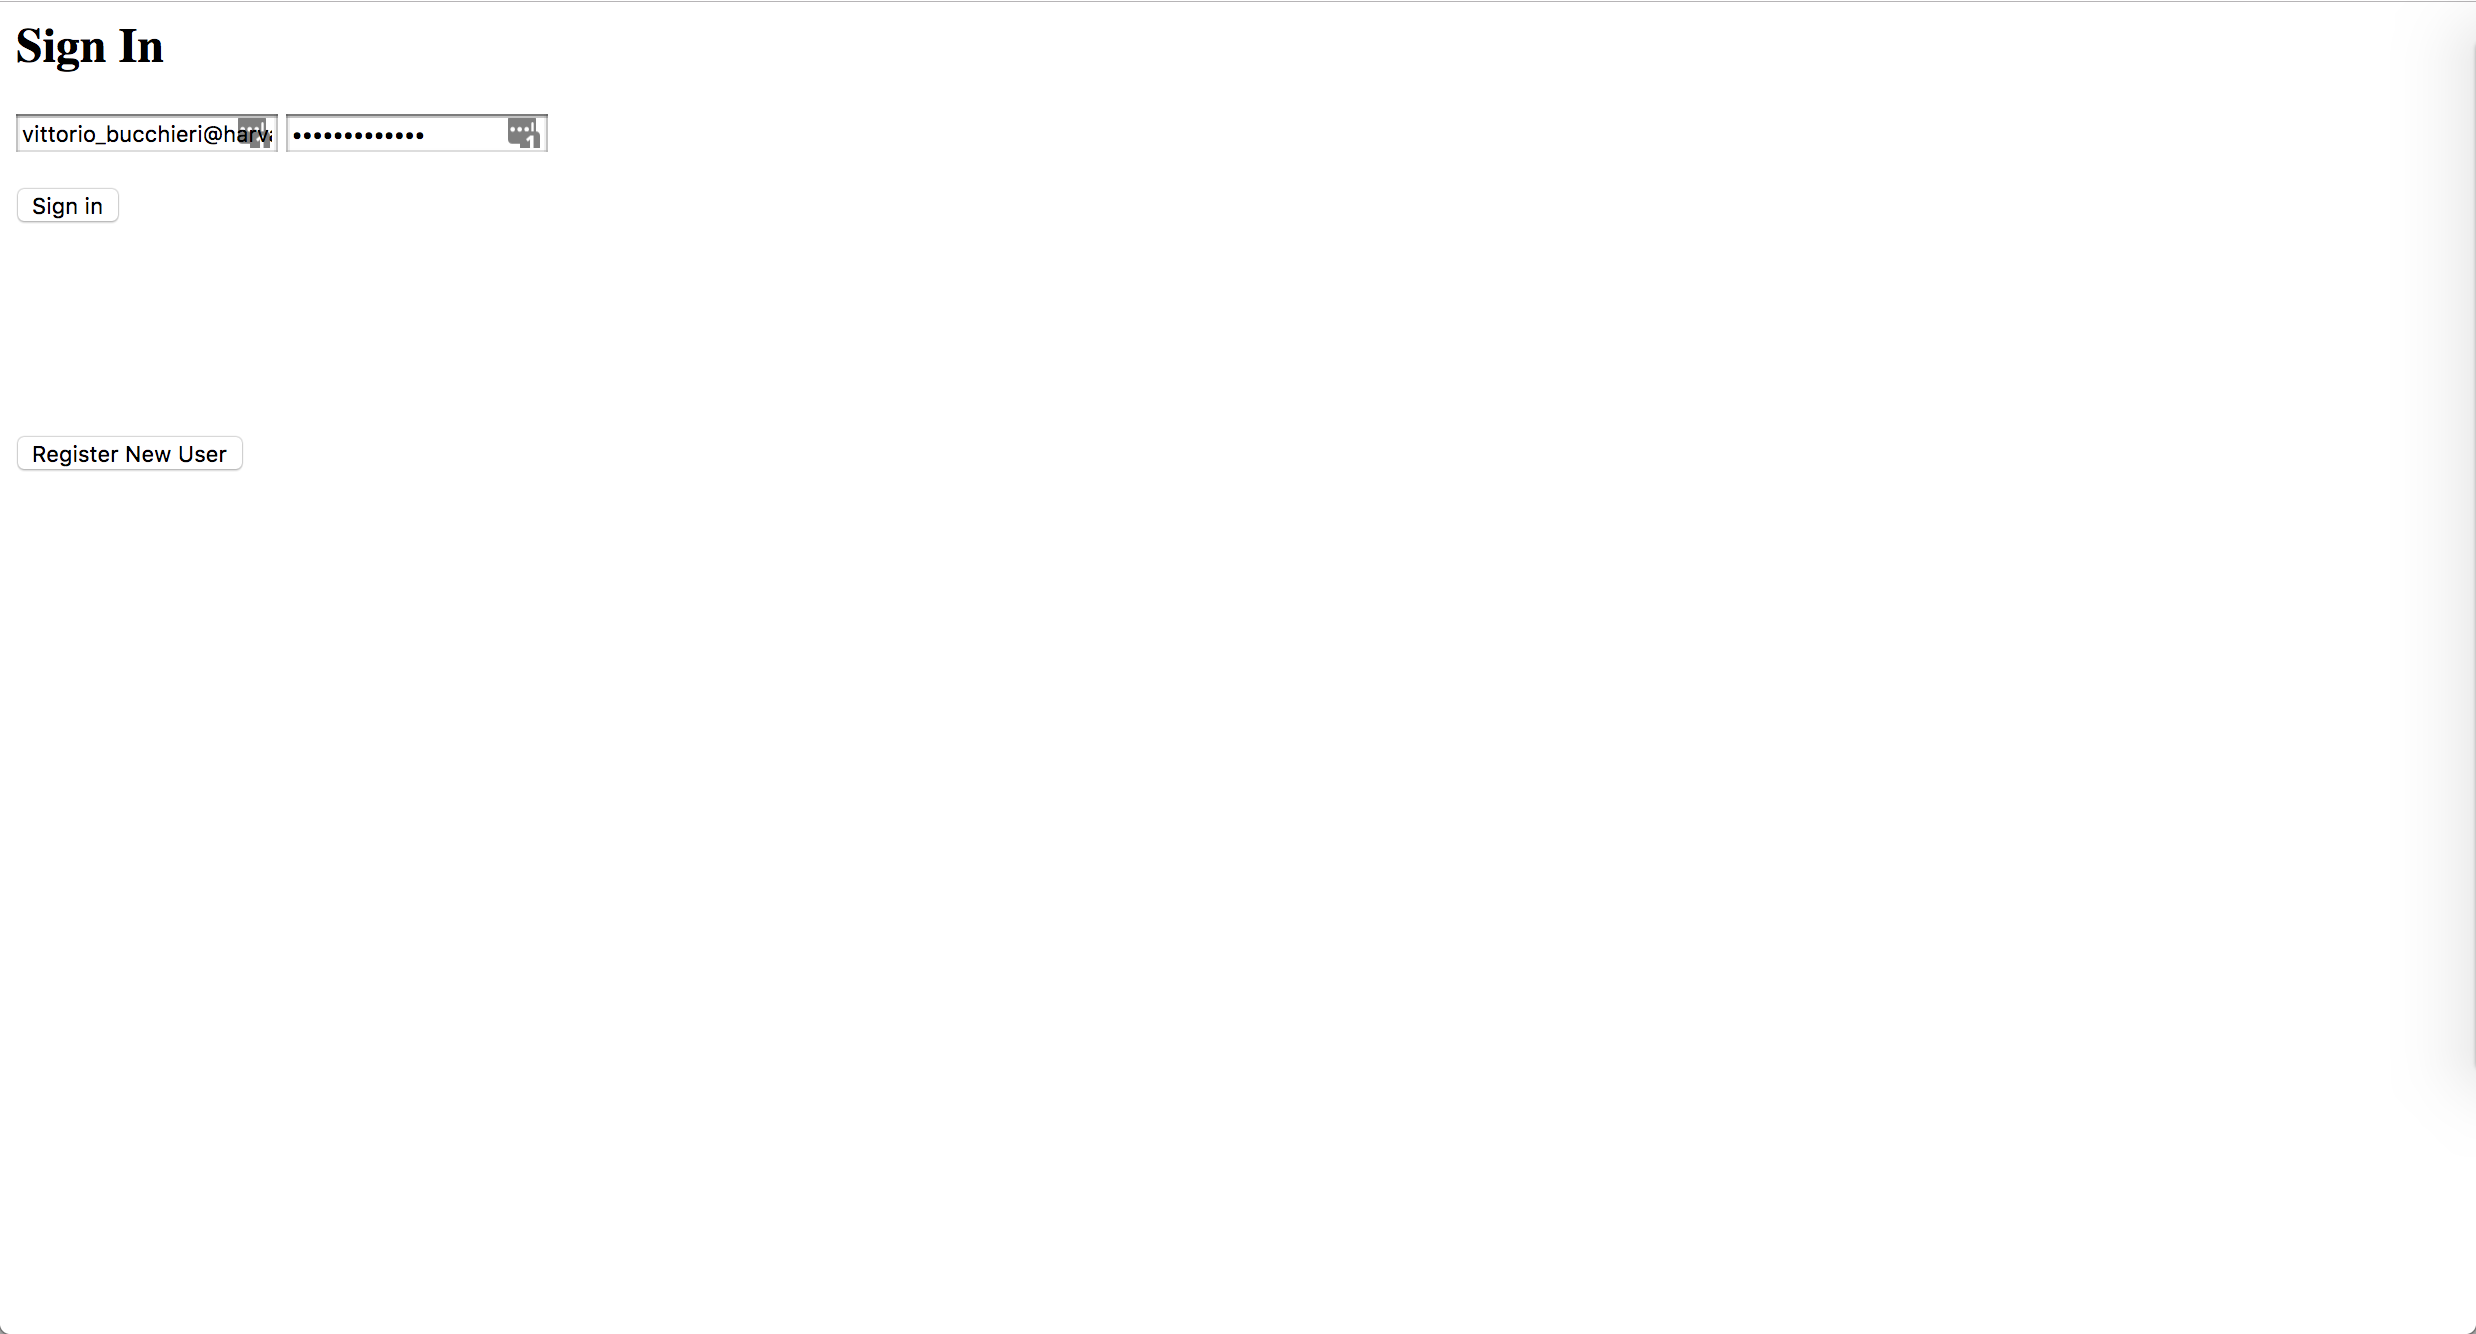
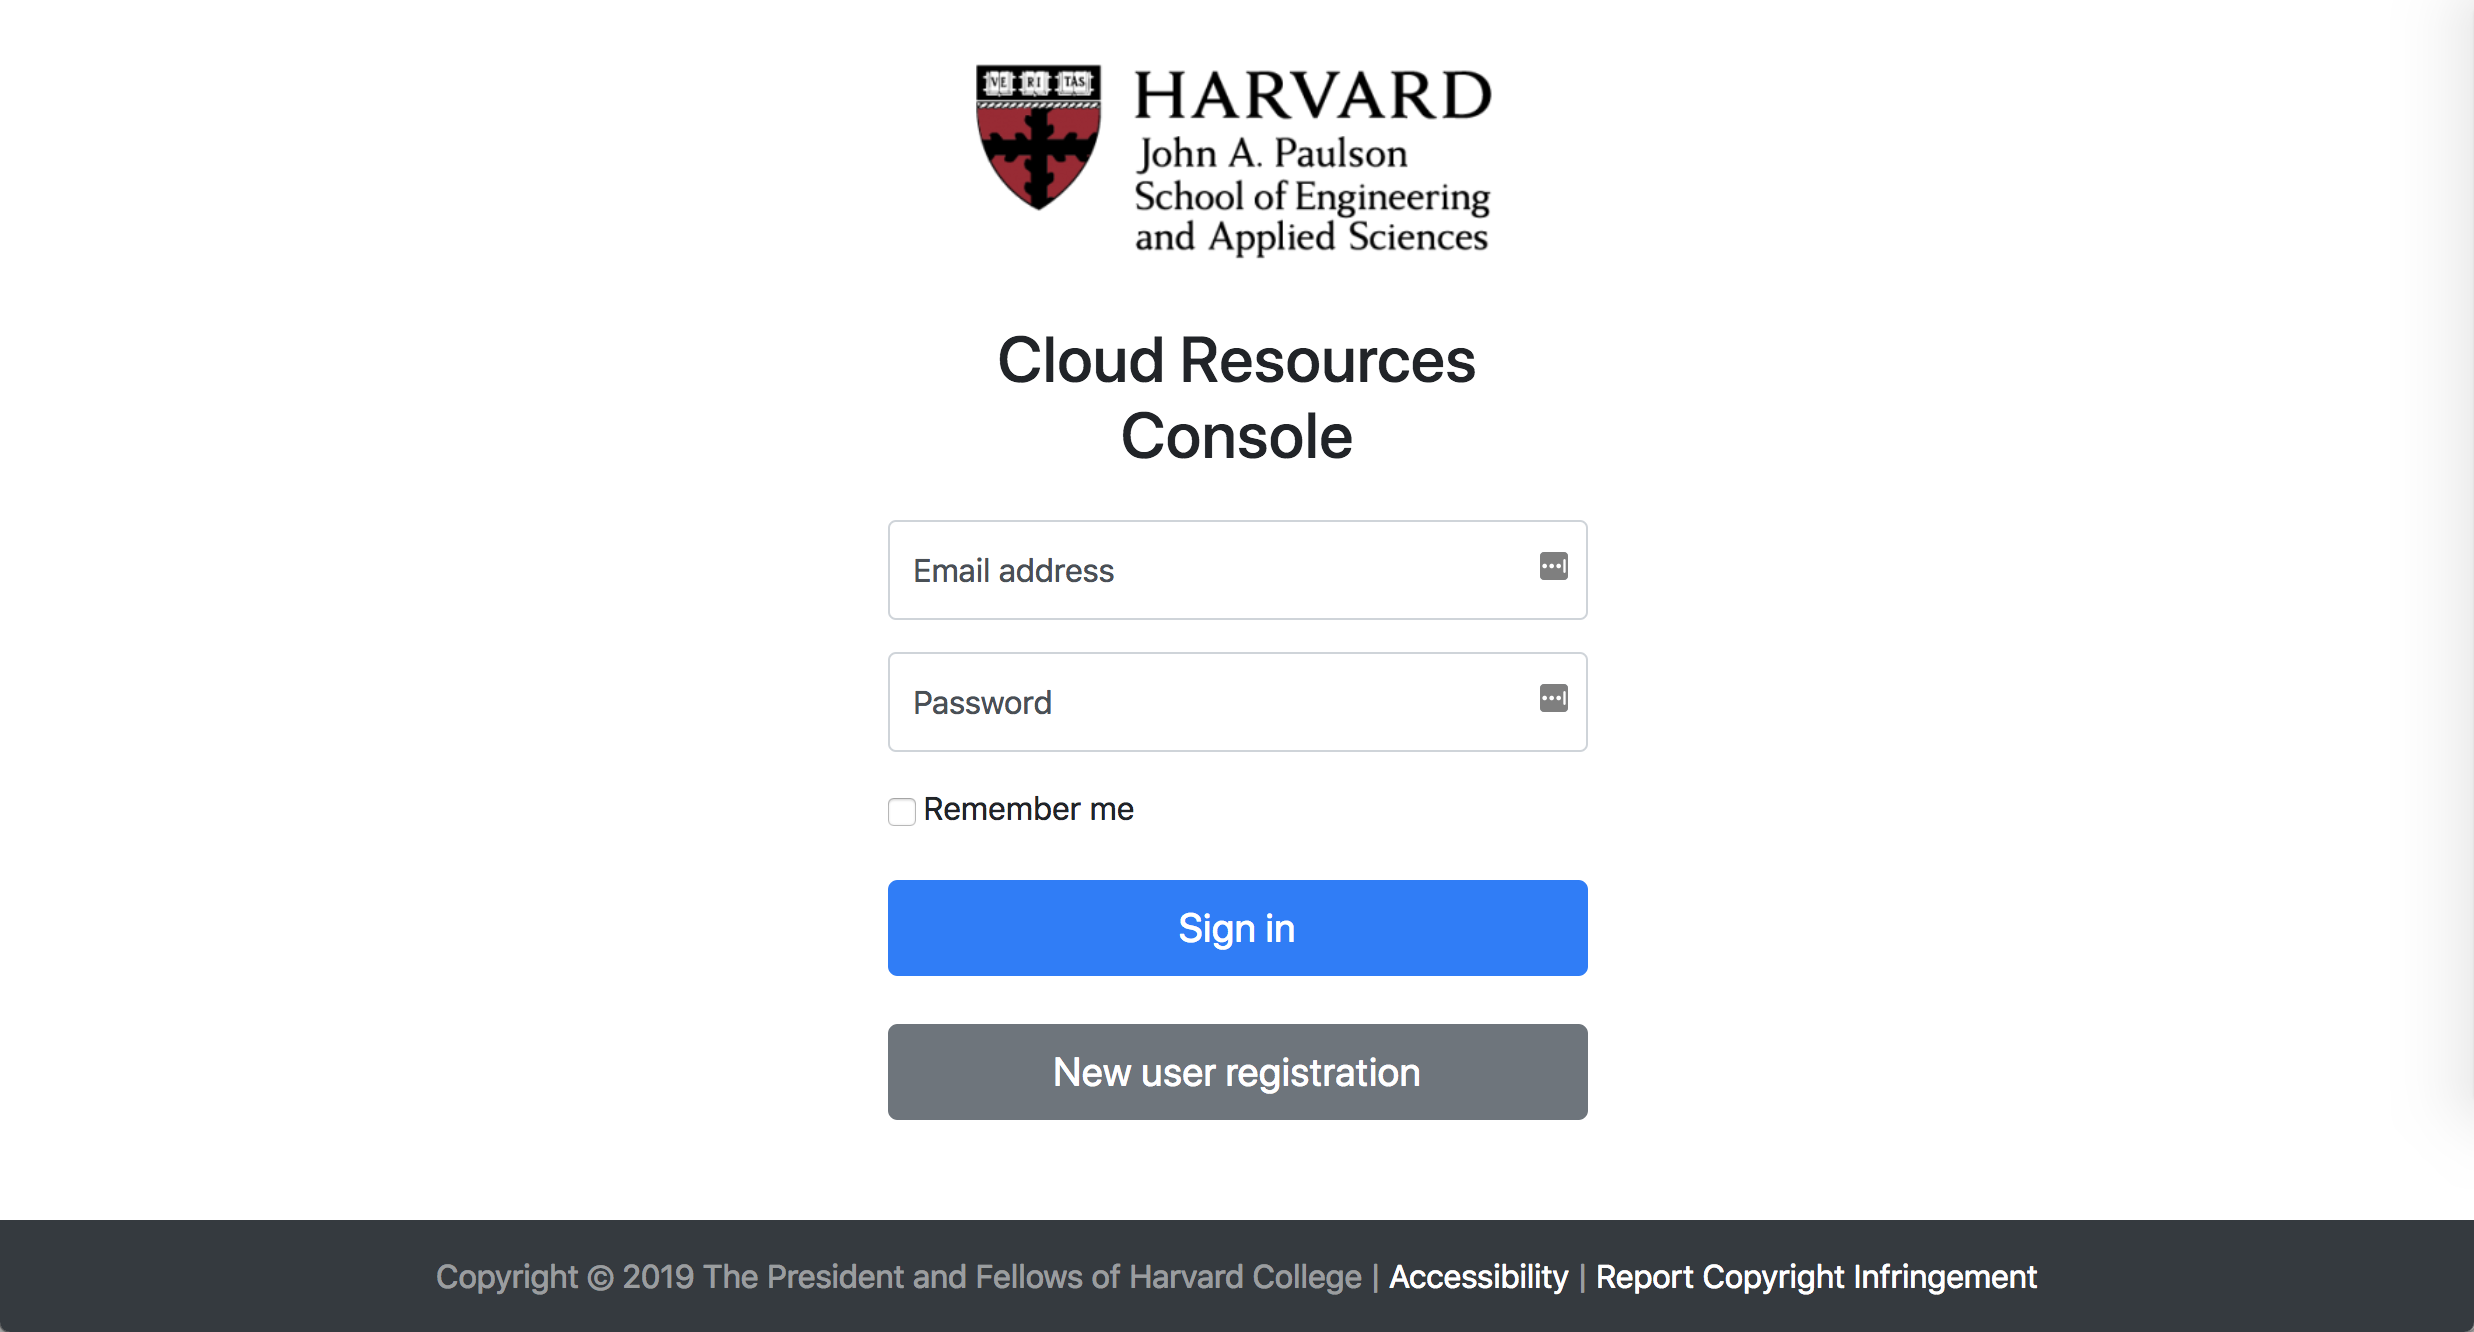
Add files via upload

diff --git a/AWS-CloudProvisioningConsole/SEAS-AWS_signIn/index.html b/AWS-CloudProvisioningConsole/SEAS-AWS_signIn/index.html
@@ -1,43 +1,115 @@
-<!--Current UI code of https://d2b4z2hciygw50.cloudfront.net/signin.html-->
+<!--Proposed UI code for https://d2b4z2hciygw50.cloudfront.net/signin.html-->
+<!--There are 11 UI comments in this commit-->
 
 
 
 
 
-
-<html>
+<!--UI comment #1 - HTML5 doctype-->
+<!doctype html>
+<!--UI comment #2 - language-->
+<html lang="en">
     <head>
         <meta charset="utf-8">
         <meta http-equiv="X-UA-Compatible" content="IE=edge,chrome=1">
-        <title></title>
+
+<!--UI comment #3 - responsive meta tag -->
+        <meta name="viewport" content="width=device-width, initial-scale=1, shrink-to-fit=no">
+
+<!--UI comment #4 - SEAS favicon-->
+        <link rel="icon" type="image/png" href="https://www.seas.harvard.edu/favicon.ico">
+
+<!--UI comment #5 - Bootstrap CSS-->
+        <link rel="stylesheet" href="https://stackpath.bootstrapcdn.com/bootstrap/4.3.1/css/bootstrap.min.css"
+              integrity="sha384-ggOyR0iXCbMQv3Xipma34MD+dH/1fQ784/j6cY/iJTQUOhcWr7x9JvoRxT2MZw1T"
+              crossorigin="anonymous">
+
+<!--UI comment #6 - Custom styles for this template -->
+        <link href="floating-labels.css" rel="stylesheet">
+
+
+<!--UI comment #7 - adding title-->
+        <title>
+            Sign in - Cloud Resources Console | Harvard John A. Paulson School of Engineering and Applied Sciences
+        </title>
         <meta name="description" content="">
-        <meta name="viewport" content="width=device-width">
     </head>
 
     <body>
-        <h2>Sign In</h2>
-        <form id="signinForm">
-            <input type="email" id="emailInputSignin" placeholder="Email" required="" autocomplete="off"
[1 lines of base64/hex data omitted]
-            <input type="password" id="passwordInputSignin" placeholder="Password" pattern=".*" required="" autocomplete="off"
[1 lines of base64/hex data omitted]
-            <br> <br>
-            <input type="submit" value="Sign in">
-        </form>
-        <br>
-        <br>
-        <br>
-        <br>
-        <br>
-        <form id="registerForm" method="get" action="register.html">
-            <button type="submit">Register New User</button>
-        </form>
+
+<!--UI comment #8 - Bootstrap responsive layout-->
+    <div class="container">
+        <div class="row">
+            <div class="col-lg-4 col-md-6 col-sm-6 col-xs-12 mx-auto mt-4">
+                <form>
+                    <div class="text-center mb-4">
+                        <img class="mb-4" src="https://static.projects.iq.harvard.edu/files/styles/os_files_medium/public/tib/files/2015_seaslogo_rgb_02.png?m=1472141717&itok=zwdYyihR" alt="Logo of Harvard John A. Paulson School of Engineering and Applied Sciences" style="width: 80%;">
+                        <h2>
+                            Cloud Resources Console
+                        </h2>
+                    </div>
+
+                    <div class="form-label-group">
+                        <input type="email" id="inputEmail" class="form-control" placeholder="Email address" required=""
+                               autofocus="" autocomplete="off"
[1 lines of base64/hex data omitted]
+                        <label for="inputEmail">Email address</label>
+                    </div>
+
+                    <div class="form-label-group">
+                        <input type="password" id="inputPassword" class="form-control" placeholder="Password" required=""
+                               autocomplete="off"
[1 lines of base64/hex data omitted]
+                        <label for="inputPassword">Password</label>
+                    </div>
+
+<!--UI comment #9 - suggesting a Remember me option, if it is feasible to implement-->
+                    <div class="checkbox mb-3">
+                        <label>
+                            <input type="checkbox" value="remember-me"> Remember me
+                        </label>
+                    </div>
+
+                    <input type="submit" value="Sign in" class="btn btn-lg btn-primary btn-block">
+                </form>
+
+                <div class="text-center mt-4">
+                    <form id="registerForm" method="get" action="register.html">
+                        <button type="submit" class="btn btn-lg btn-secondary btn-block">New user registration</button>
+                    </form>
+                </div>
+            </div>
+        </div>
+    </div>
+
+<!--UI comment #10 - standard Harvard footer-->
+        <nav class="navbar navbar-dark bg-dark fixed-bottom">
+            <span class="navbar-text mx-auto">
+                Copyright © 2019 The President and Fellows of Harvard College
+                |
+                <a href="http://accessibility.harvard.edu/">Accessibility</a>
+                |
+                <a href="http://www.harvard.edu/reporting-copyright-infringements">Report Copyright Infringement</a>
+            </span>
+        </nav>
 
         <script src="js/vendor/jquery-3.1.0.js"></script>
         <script src="js/vendor/aws-cognito-sdk.min.js"></script>
         <script src="js/vendor/amazon-cognito-identity.min.js"></script>
         <script src="js/config.js"></script>
         <script src="js/cognito-auth.js"></script>
+
+<!--UI comment #11 - adding optional Bootsrap JavaScript -->
+        <!-- jQuery first, then Popper.js, then Bootstrap JS -->
+        <script src="https://code.jquery.com/jquery-3.3.1.slim.min.js"
+                integrity="sha384-q8i/X+965DzO0rT7abK41JStQIAqVgRVzpbzo5smXKp4YfRvH+8abtTE1Pi6jizo"
+                crossorigin="anonymous"></script>
+        <script src="https://cdnjs.cloudflare.com/ajax/libs/popper.js/1.14.7/umd/popper.min.js"
+                integrity="sha384-UO2eT0CpHqdSJQ6hJty5KVphtPhzWj9WO1clHTMGa3JDZwrnQq4sF86dIHNDz0W1"
+                crossorigin="anonymous"></script>
+        <script src="https://stackpath.bootstrapcdn.com/bootstrap/4.3.1/js/bootstrap.min.js"
+                integrity="sha384-JjSmVgyd0p3pXB1rRibZUAYoIIy6OrQ6VrjIEaFf/nJGzIxFDsf4x0xIM+B07jRM"
+                crossorigin="anonymous"></script>
 
     </body>
 </html>

diff --git a/AWS-CloudProvisioningConsole/SEAS-AWS_signIn/floating-labels.css b/AWS-CloudProvisioningConsole/SEAS-AWS_signIn/floating-labels.css
@@ -1,0 +1,100 @@
+html,
+body {
+  height: 100%;
+}
+
+.form-signin {
+  width: 100%;
+  max-width: 420px;
+  padding: 15px;
+  margin: auto;
+}
+
+.registerForm {
+  width: 100%;
+  max-width: 420px;
+  padding: 15px;
+  margin: auto;
+  position: relative;
+}
+
+.form-label-group {
+  position: relative;
+  margin-bottom: 1rem;
+}
+
+.form-label-group > input,
+.form-label-group > label {
+  height: 3.125rem;
+  padding: .75rem;
+}
+
+.form-label-group > label {
+  position: absolute;
+  top: 0;
+  left: 0;
+  display: block;
+  width: 100%;
+  margin-bottom: 0; /* Override default `<label>` margin */
+  line-height: 1.5;
+  color: #495057;
+  pointer-events: none;
+  cursor: text; /* Match the input under the label */
+  border: 1px solid transparent;
+  border-radius: .25rem;
+  transition: all .1s ease-in-out;
+}
+
+.form-label-group input::-webkit-input-placeholder {
+  color: transparent;
+}
+
+.form-label-group input:-ms-input-placeholder {
+  color: transparent;
+}
+
+.form-label-group input::-ms-input-placeholder {
+  color: transparent;
+}
+
+.form-label-group input::-moz-placeholder {
+  color: transparent;
+}
+
+.form-label-group input::placeholder {
+  color: transparent;
+}
+
+.form-label-group input:not(:placeholder-shown) {
+  padding-top: 1.25rem;
+  padding-bottom: .25rem;
+}
+
+.form-label-group input:not(:placeholder-shown) ~ label {
+  padding-top: .25rem;
+  padding-bottom: .25rem;
+  font-size: 12px;
+  color: #777;
+}
+
+/* Fallback for Edge
+-------------------------------------------------- */
+@supports (-ms-ime-align: auto) {
+  .form-label-group > label {
+    display: none;
+  }
+  .form-label-group input::-ms-input-placeholder {
+    color: #777;
+  }
+}
+
+/* Fallback for IE
+-------------------------------------------------- */
+@media all and (-ms-high-contrast: none), (-ms-high-contrast: active) {
+  .form-label-group > label {
+    display: none;
+  }
+  .form-label-group input:-ms-input-placeholder {
+    color: #777;
+  }
+}
